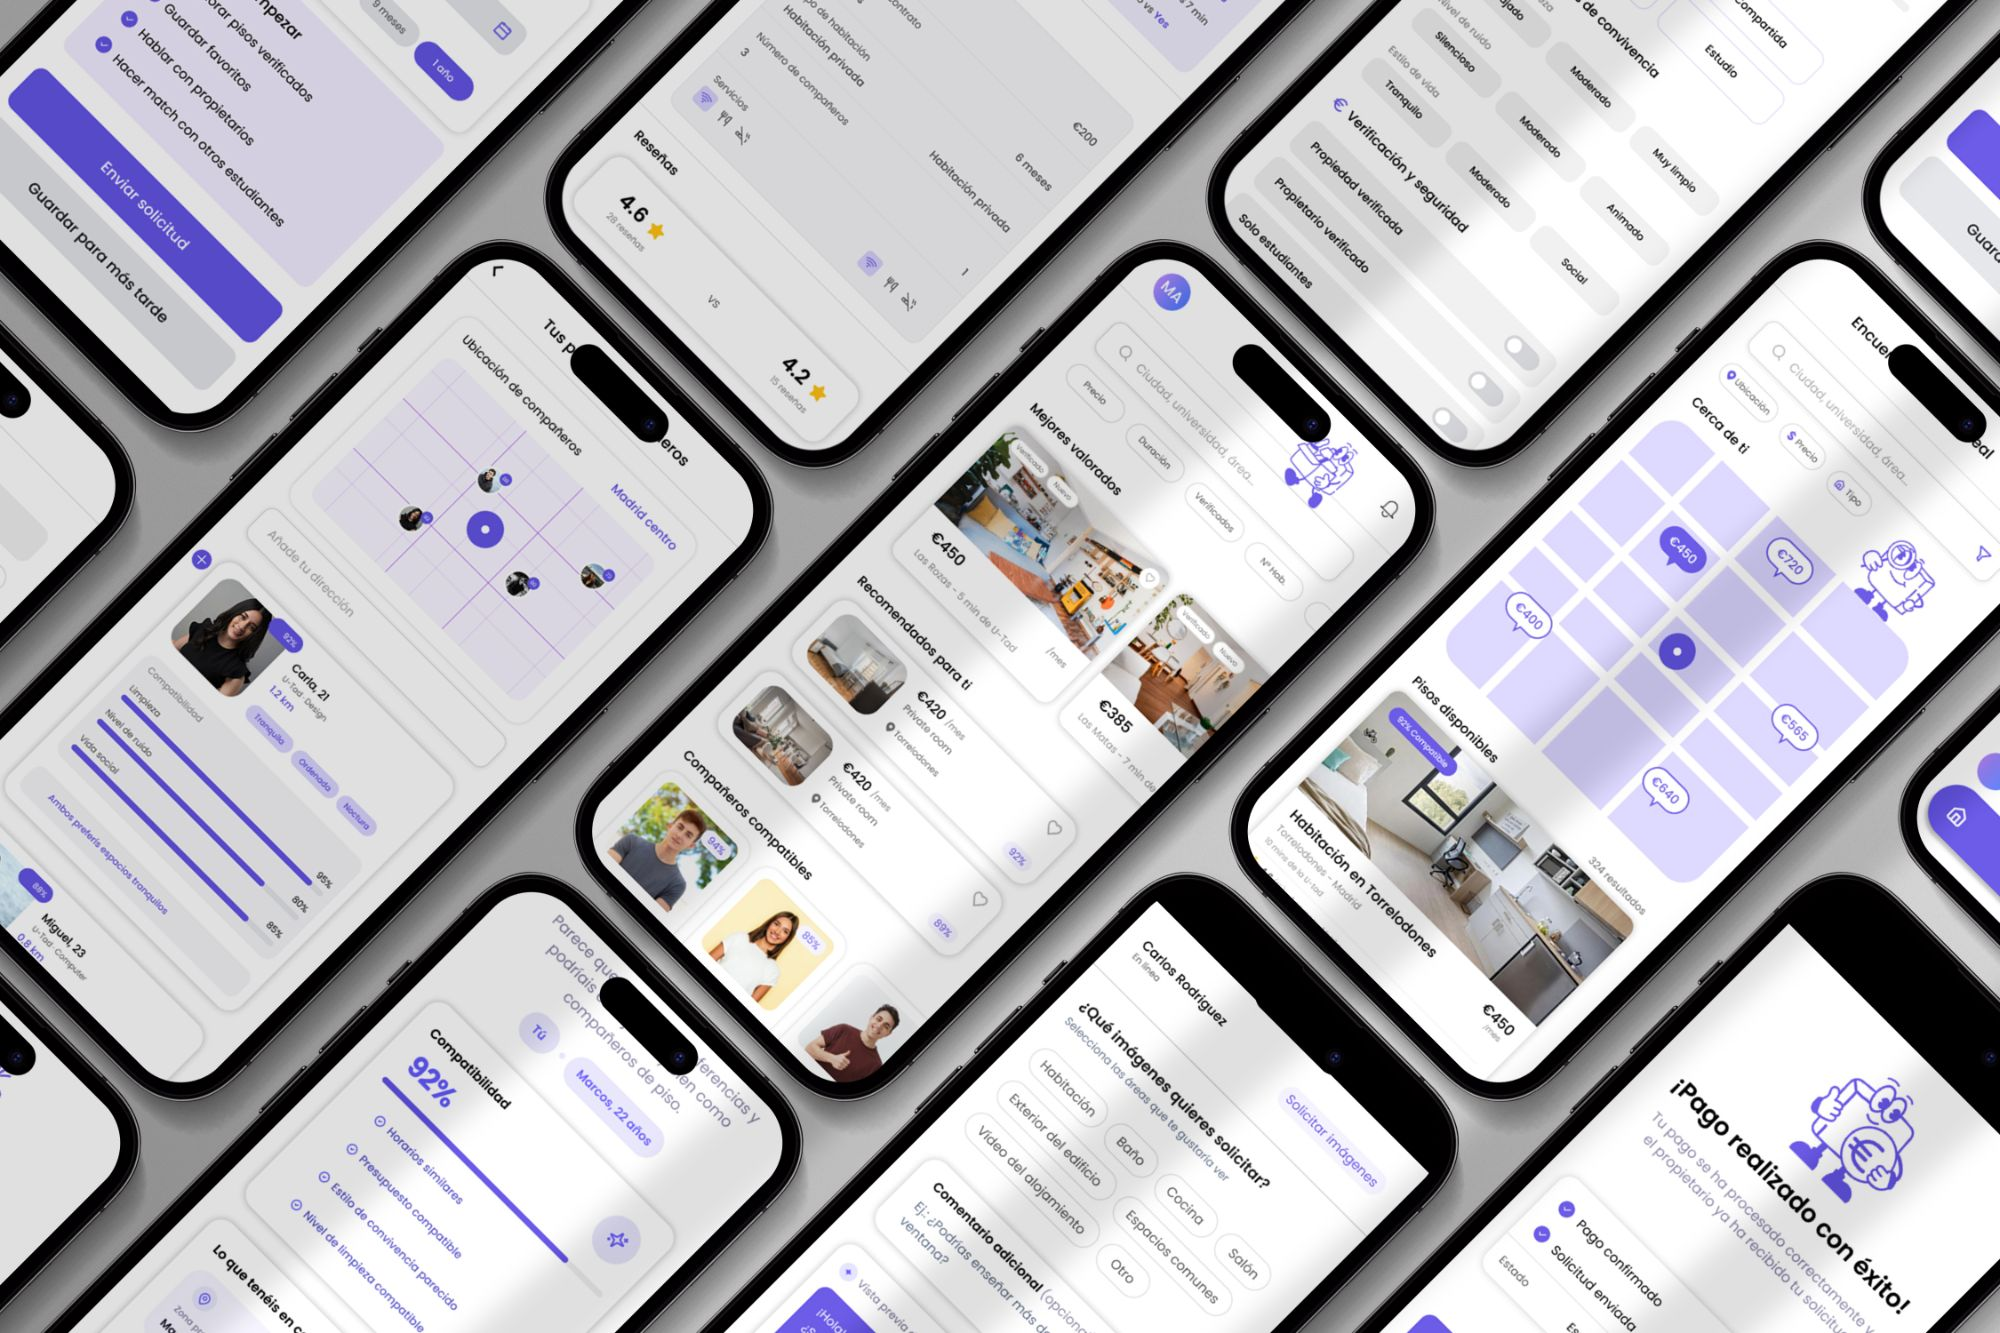
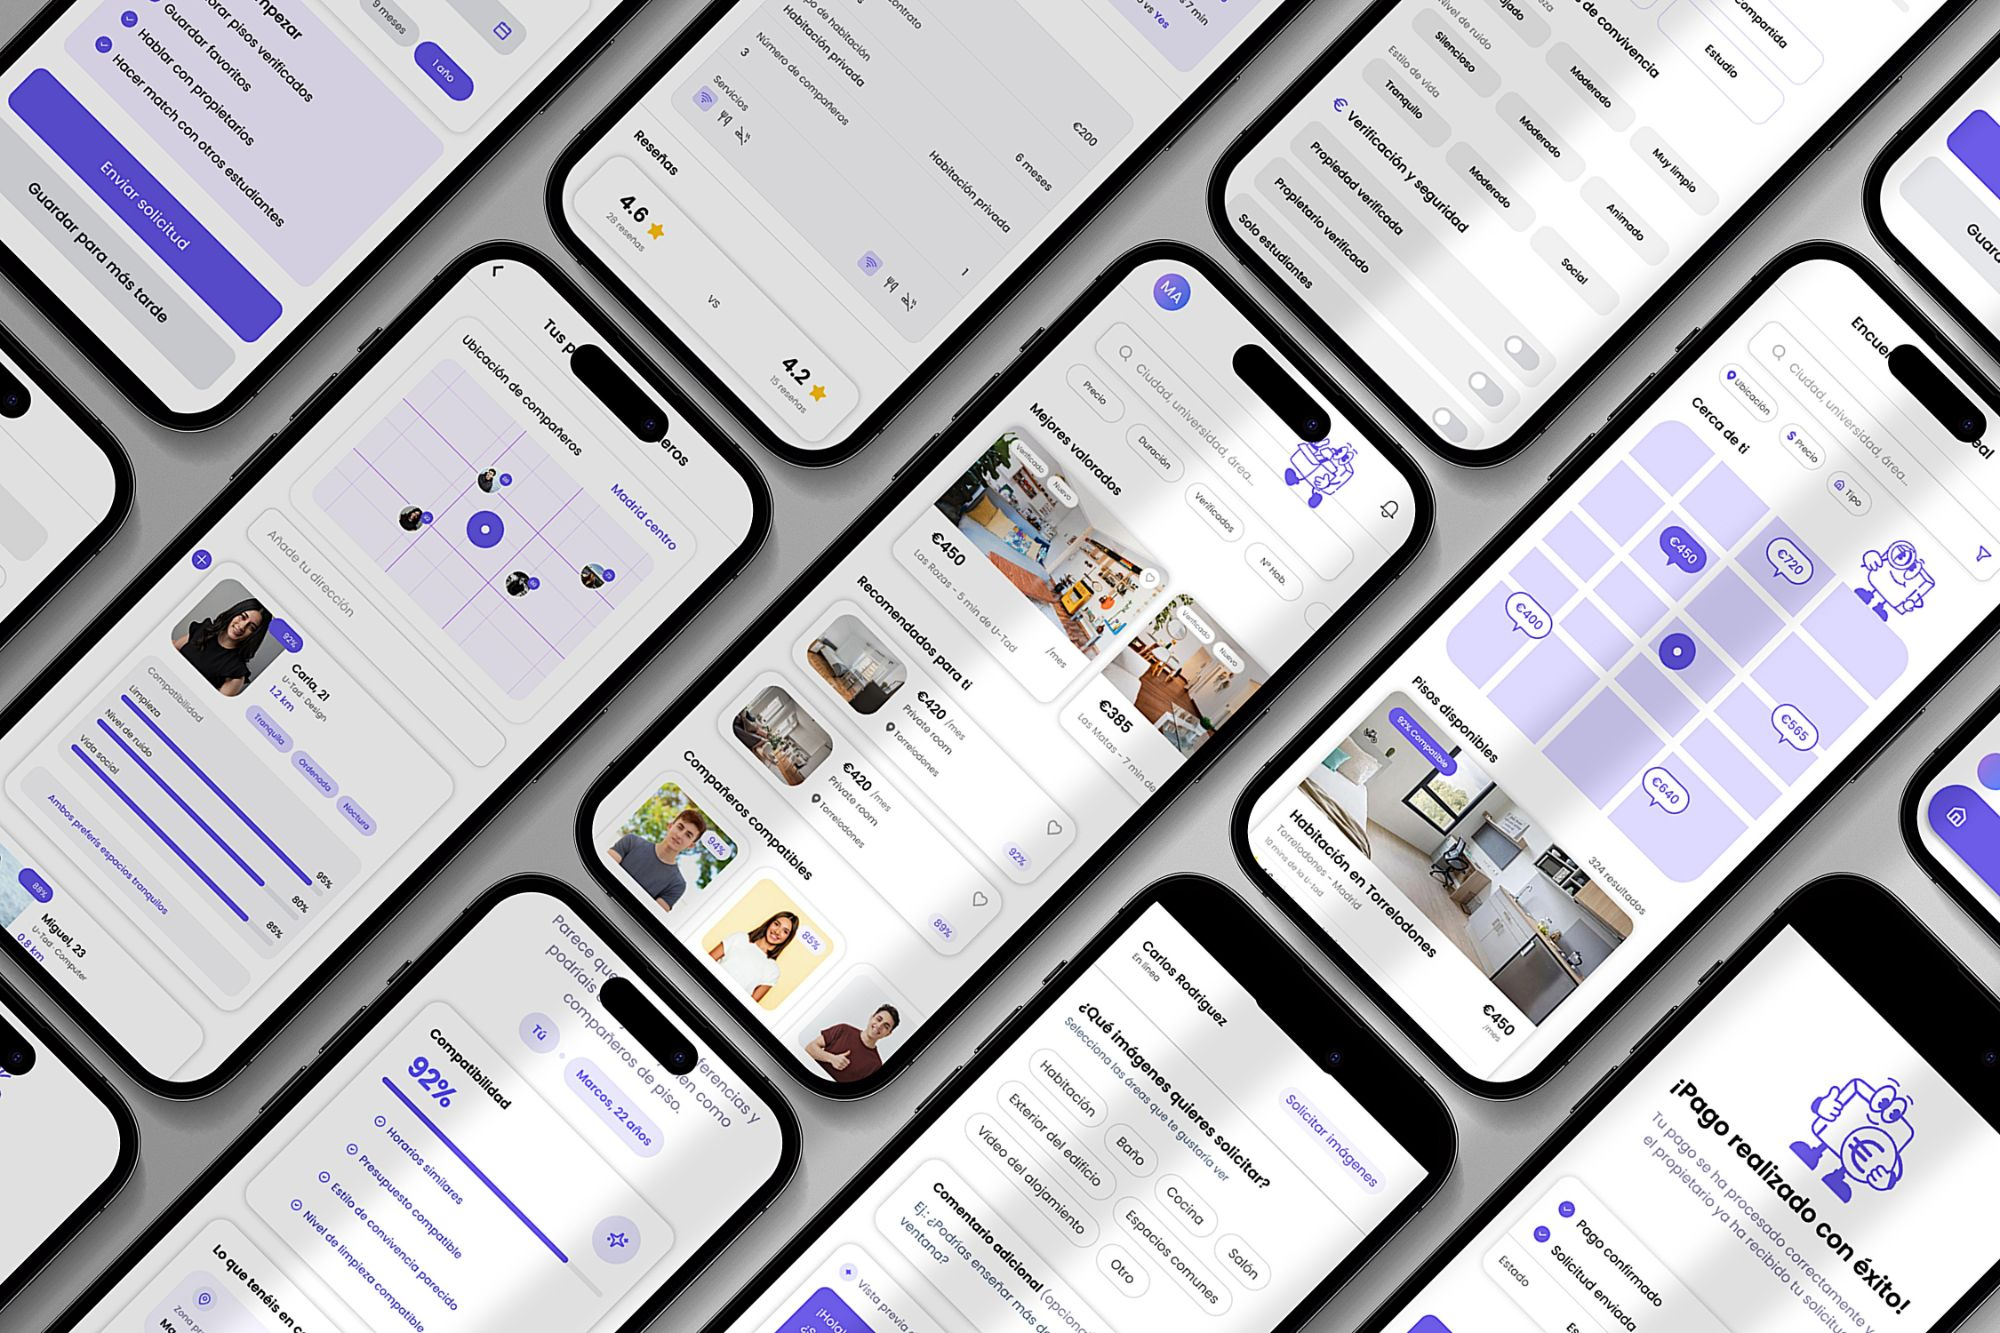
Livvi: replace the many-screens image with the sharpened version
Same 2000x1333 size, so the layout and the chat mascot resting on it are
unchanged. The URL is versioned so browsers drop the old copy.

diff --git a/livvi.html b/livvi.html
@@ -67,7 +67,7 @@
       <img class="cm-dot cm-dot2" src="images/livvi/chat-dot2.png?v=2" alt="" width="486" height="451">
       <img class="cm-dot cm-dot3" src="images/livvi/chat-dot3.png?v=2" alt="" width="486" height="451">
       </div>
-      <img src="images/livvi/mockup_screens.jpg" alt="Livvi app screens on iPhones" width="2000" height="1333" style="--ar:1.5004">
+      <img src="images/livvi/mockup_screens.jpg?v=2" alt="Livvi app screens on iPhones" width="2000" height="1333" style="--ar:1.5004">
     </div>
     <div class="row reveal">
       <img src="images/livvi/mockup_icon.jpg" alt="Livvi app icon on an iPhone home screen" width="2000" height="1334" style="--ar:1.4993" loading="lazy" decoding="async">
